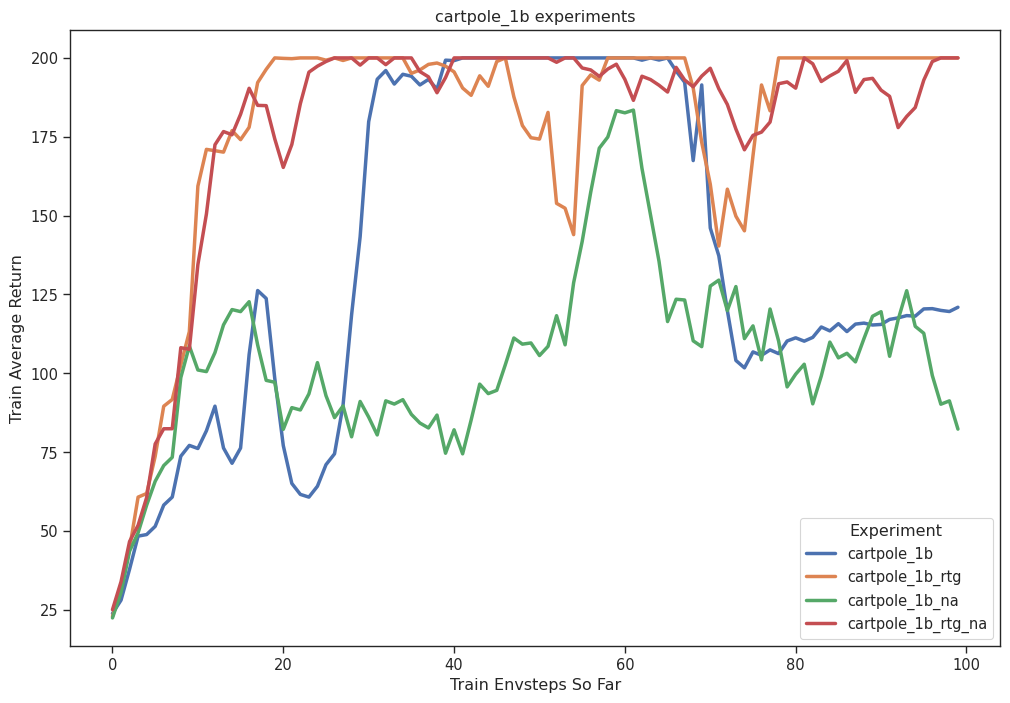
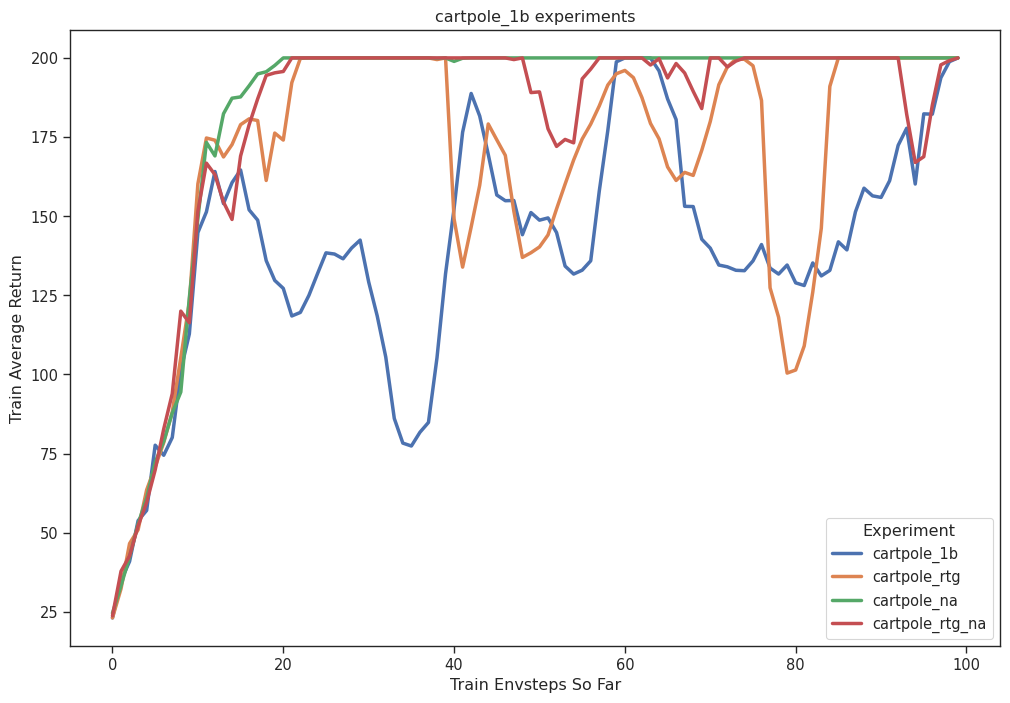
advantage normalize modify

diff --git a/hw2/cs285/agents/pg_agent.py b/hw2/cs285/agents/pg_agent.py
@@ -155,7 +155,9 @@ class PGAgent(nn.Module):
 
         # TODO: normalize the advantages to have a mean of zero and a standard deviation of one within the batch
         if self.normalize_advantages:
-            pass
+            mean = np.mean(advantages)
+            std = np.std(advantages) + 1e-8 # NOTE: if all Q values are same, then std will be 0. so add small value to avoid division by zero
+            advantages = (advantages - mean) / std
 
         return advantages
 
